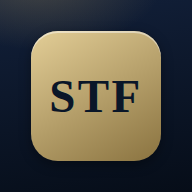
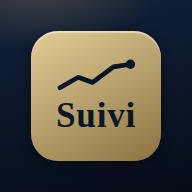
Icone de l'application : « Suivi » et courbe montante, a la place de STF
Nom sous l'icone : « Suivi ». Cache du mode hors connexion renouvele pour
servir les nouvelles icones.

Claude-Session: https://claude.ai/code/session_01Tz6qCPEe7b7XFCNrUG1BPe

Changed region(s): [[0.25, 0.2812, 0.75, 0.6875]]

diff --git a/suivi.html b/suivi.html
@@ -13,7 +13,7 @@
 <meta name="mobile-web-app-capable" content="yes">
 <meta name="apple-mobile-web-app-capable" content="yes">
 <meta name="apple-mobile-web-app-status-bar-style" content="black-translucent">
-<meta name="apple-mobile-web-app-title" content="Suivi STF">
+<meta name="apple-mobile-web-app-title" content="Suivi">
 <link rel="apple-touch-icon" href="assets/icones/apple-touch-icon.png">
 <link rel="icon" type="image/png" href="assets/icones/icone-192.png">
 </head>

diff --git a/sw-suivi.js b/sw-suivi.js
@@ -4,7 +4,7 @@
 //
 // Strategie « reseau d'abord » : en ligne, la derniere version publiee est
 // chargee (les mises a jour arrivent seules) ; hors ligne, la copie en cache.
-const CACHE = 'suivi-stf-v1';
+const CACHE = 'suivi-stf-v2';
 const FICHIERS = [
   './suivi.html',
   './suivi.webmanifest',
